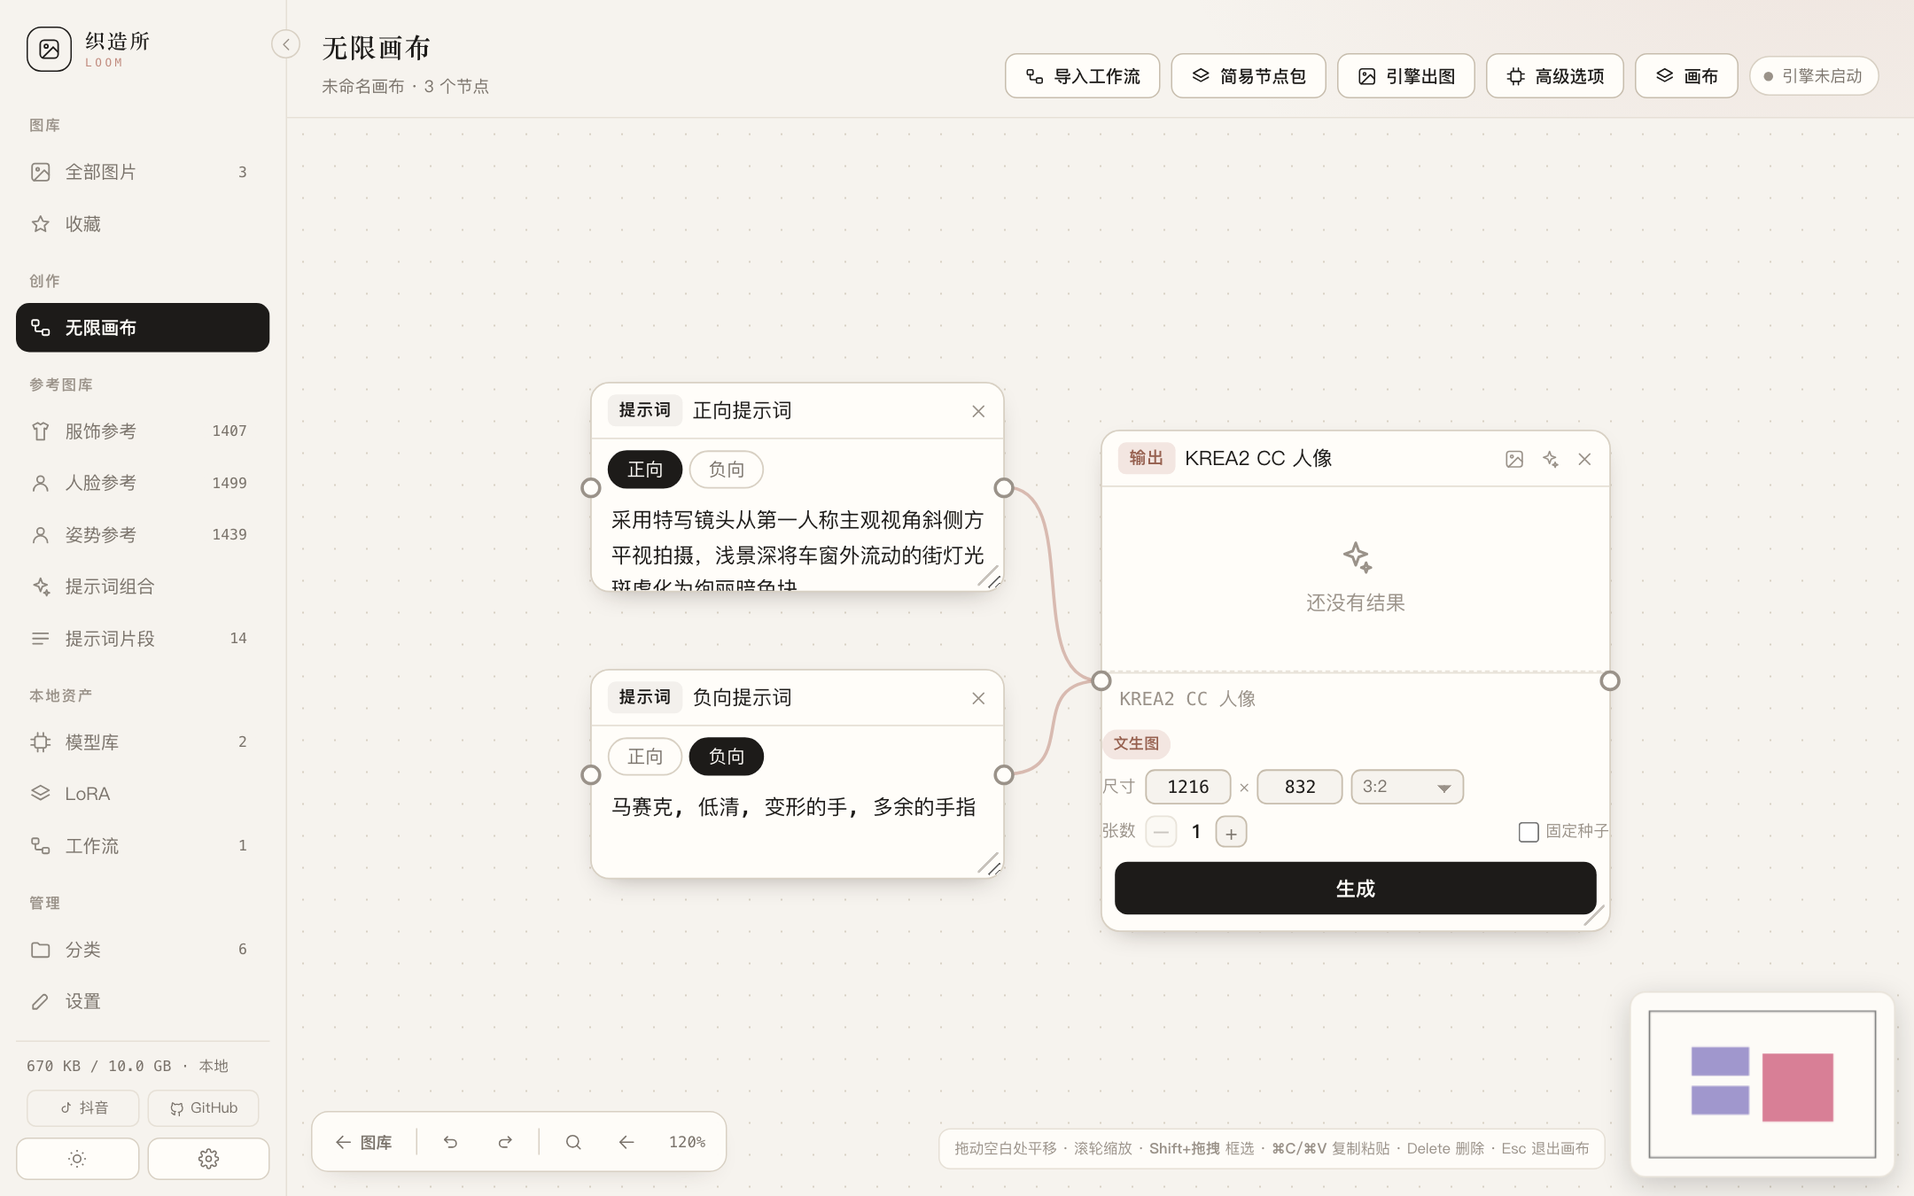
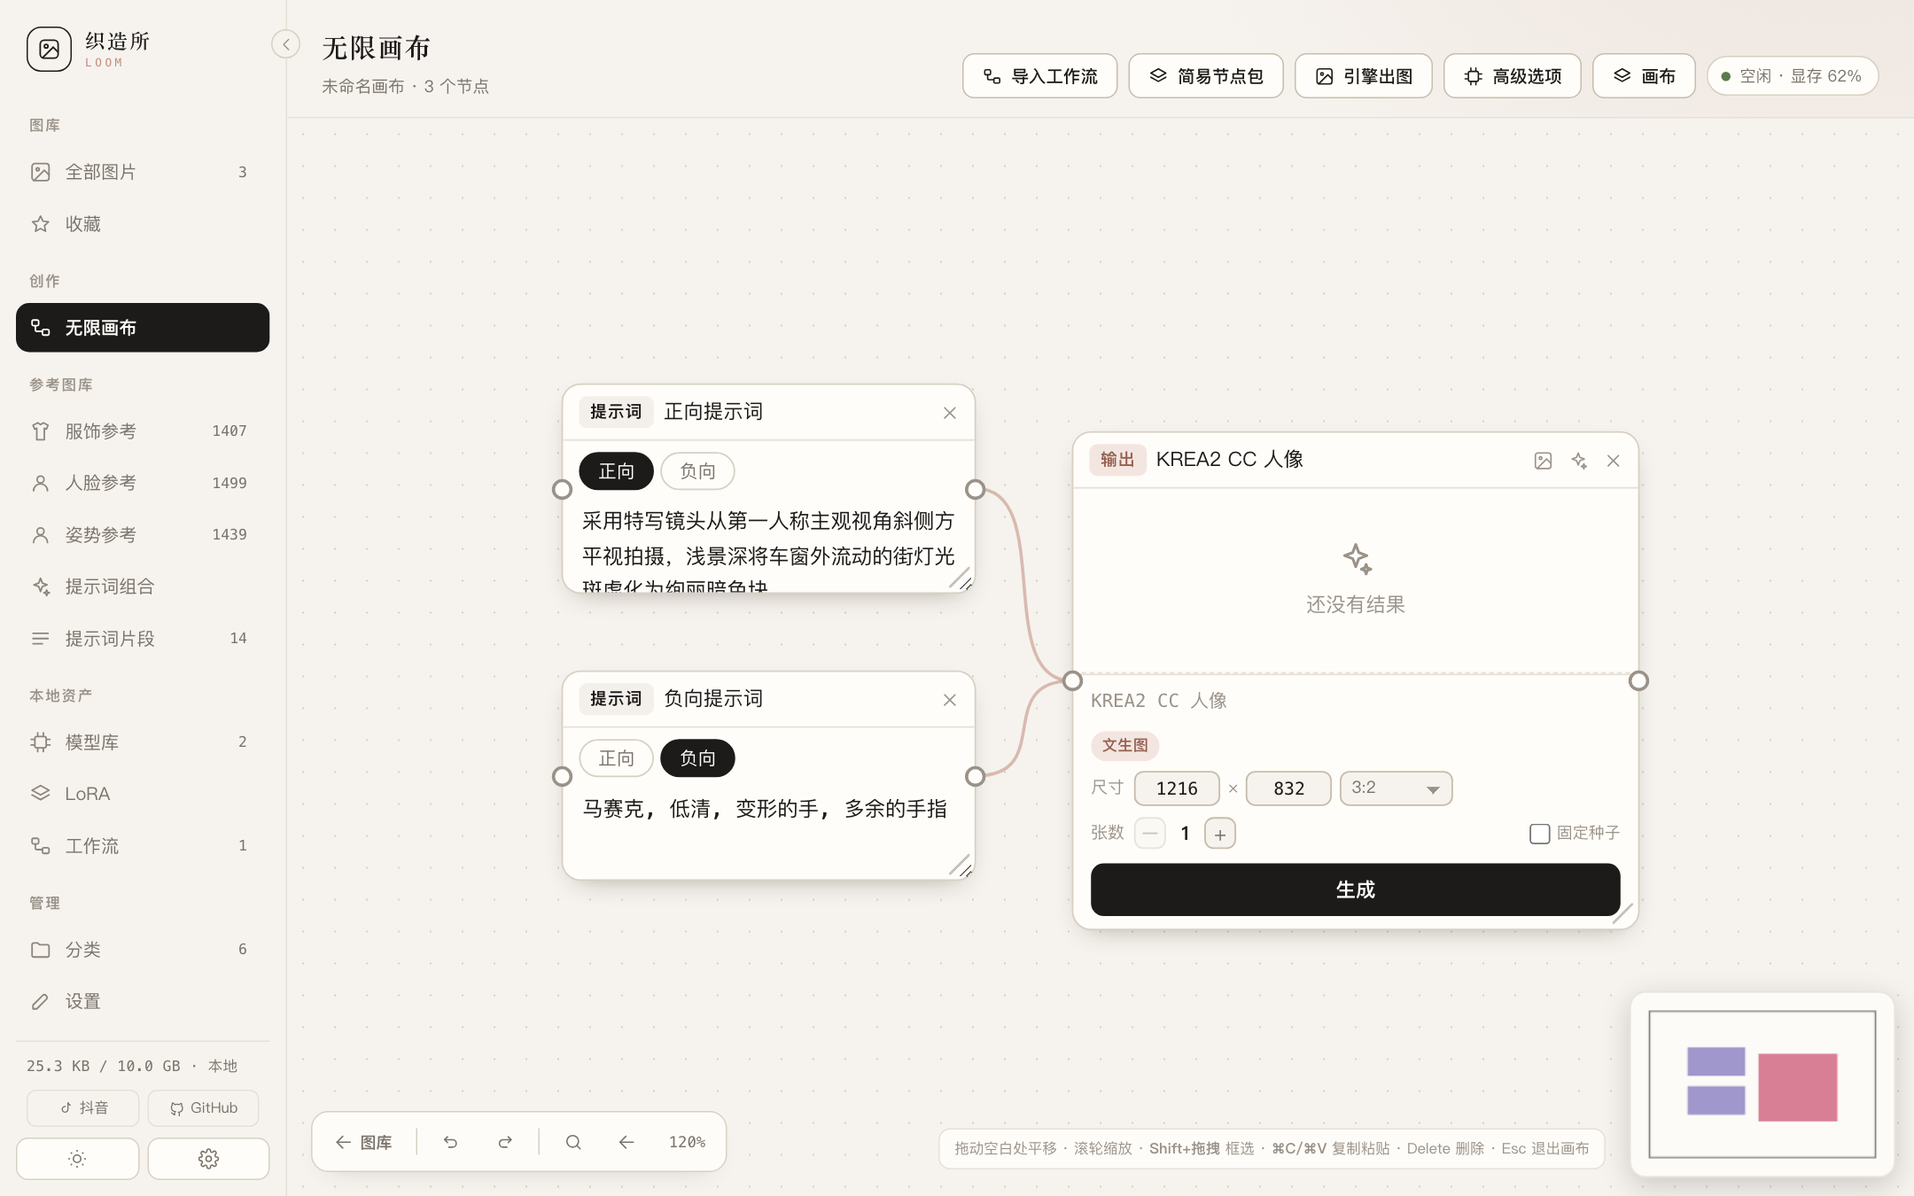
fix: 参考图库破图（404 被缓存 7 天）+ 输出节点控件挤成一团
根因不是图丢了，是服务器的缓存头写错了。

serve.py 的 end_headers() 不判状态码，给所有响应都打
`Cache-Control: public, max-age=604800`。参考缩略图还没下载完时打开过图库，
浏览器就把那些 404 记了 7 天；等图都在了，它还是拿缓存里那个 404 ——
刷新也不管用（缓存没过期）。所以表现为「一部分缩略图怎么都不显示」，
而且每个人坏的不是同一批（取决于当时滚到哪）。

上一版还是 HTTP/1.0，每张缩略图新建一条 TCP 连接。图库一屏 120 张、
往下滚继续加载，几百条短连接会把本机临时端口用光，也是「部分图加载不出来」
的另一个来源。

修法
- end_headers() 只在 200 / 304 时长缓存，其余一律 no-store
- 新增 send_response() 记录状态码供其判断
- Handler.protocol_version = HTTP/1.1（连接复用），timeout = 30 防僵尸连接
- 缩略图 URL 统一加 ?v=3（reference.js 的 THUMB_VER）：已经被缓存 404 的
  浏览器会自动换新地址，用户不用手动清缓存

输出节点 UI
- .cv-size / .cv-batch / .cv-slots 之前没有左右留白，控件直接顶在卡片边框上，
  现在统一 11px，与工作流名、状态行、按钮完全对齐
- 节点加宽：输出 320 → 356，简化 300 → 330（320 放不下尺寸+比例+张数+固定种子）
- 错误态只留一个主按钮「重试」，不再「生成」和「重试」上下叠着两个
- 错误文案最多 3 行，长报错不撑变形
- 工作流名/模型名重新分配弹性，右边限宽 58%

测试
- py 52 → 59：缓存头回归（图片 200/304 长缓存、404/500 不缓存、代码文件不缓存、
  send_response 记状态码）+ HTTP/1.1 断言

实测：三个参考图库各 120 张，破图 0、网络失败 0；13 视图 0 异常；
节点各行的 left 偏移完全一致（18px @1.5x）。

diff --git a/assets/canvas.js b/assets/canvas.js
@@ -399,11 +399,12 @@ window.Canvas = (function () {
           ? `<div class="cv-prog"><i style="width:${Math.min(100, Math.max(2, Math.round(n.data.prog.step / Math.max(1, n.data.prog.total) * 100)))}%"></i></div>`
           : ''}
         ${n.data.statusText ? `<div class="cv-gen-status ${st}">${esc(n.data.statusText)}</div>` : ''}
-        <button class="cv-run" data-cvnode="run" ${st === 'running' ? 'disabled' : ''}>
-          ${st === 'running' ? '<span class="spinner"></span> 生成中' : '生成'}
-        </button>
-        ${st === 'running' ? '<button class="cv-cancel" data-cvnode="cancel">取消</button>' : ''}
-        ${st === 'error' ? '<button class="cv-cancel retry" data-cvnode="retry">重试</button>' : ''}`;
+        ${st === 'error'
+          ? `<button class="cv-run retry" data-cvnode="retry">重试</button>`
+          : `<button class="cv-run" data-cvnode="run" ${st === 'running' ? 'disabled' : ''}>
+               ${st === 'running' ? '<span class="spinner"></span> 生成中' : '生成'}
+             </button>`}
+        ${st === 'running' ? '<button class="cv-cancel" data-cvnode="cancel">取消</button>' : ''}`;
     } else if (n.type === 'simple') {
       const st = n.data.status || 'idle';
       const slots = n.data.imageSlots || 0;
@@ -426,11 +427,12 @@ window.Canvas = (function () {
         ${batchRow(n)}
         ${st === 'running' && n.data.prog ? `<div class="cv-prog"><i style="width:${pct}%"></i></div>` : ''}
         ${n.data.statusText ? `<div class="cv-gen-status ${st}">${esc(n.data.statusText)}</div>` : ''}
-        <button class="cv-run" data-cvnode="run" ${st === 'running' ? 'disabled' : ''}>
-          ${st === 'running' ? '<span class="spinner"></span> 生成中' : '生成'}
-        </button>
-        ${st === 'running' ? '<button class="cv-cancel" data-cvnode="cancel">取消</button>' : ''}
-        ${st === 'error' ? '<button class="cv-cancel retry" data-cvnode="retry">重试</button>' : ''}`;
+        ${st === 'error'
+          ? `<button class="cv-run retry" data-cvnode="retry">重试</button>`
+          : `<button class="cv-run" data-cvnode="run" ${st === 'running' ? 'disabled' : ''}>
+               ${st === 'running' ? '<span class="spinner"></span> 生成中' : '生成'}
+             </button>`}
+        ${st === 'running' ? '<button class="cv-cancel" data-cvnode="cancel">取消</button>' : ''}`;
     } else if (n.type === 'group') {
       const items = groupItems(n);
       const act = Math.min(items.length - 1, Math.max(0, Number(n.data.active) || 0));
@@ -1542,8 +1544,8 @@ window.Canvas = (function () {
       prompt: { w: 320, data: { text: '', role: '正向' } },
       image: { w: 260, data: { src: '', label: '图片' } },
       ref: { w: 220, data: { src: '', label: '参考图' } },
-      gen: { w: 320, data: { wfName: '', model: '', status: 'idle', statusText: '' } },
-      simple: { w: 300, data: { wfName: '', text: '', neg: '', src: '', imageSlots: 0, status: 'idle', statusText: '' } },
+      gen: { w: 356, data: { wfName: '', model: '', status: 'idle', statusText: '' } },
+      simple: { w: 330, data: { wfName: '', text: '', neg: '', src: '', imageSlots: 0, status: 'idle', statusText: '' } },
       wf: { w: 240, data: {} },
       group: { w: 300, data: { items: [], active: 0, label: '图片组' } }
     }[type];

diff --git a/assets/style.css b/assets/style.css
@@ -920,6 +920,8 @@ html[data-theme="light"] #lightbox { background: rgba(246, 243, 238, .97); }
 }
 .cv-gen-meta:hover { color: var(--text); }
 .cv-gen-meta span { overflow: hidden; text-overflow: ellipsis; white-space: nowrap; }
+.cv-gen-meta span:first-child { flex: 1 1 auto; min-width: 0; }
+.cv-gen-meta span:last-child { flex: 0 1 auto; max-width: 58%; }
 .cv-gen-status {
   padding: 0 11px 8px;
   font-size: 11.5px; color: var(--text-2);
@@ -928,11 +930,19 @@ html[data-theme="light"] #lightbox { background: rgba(246, 243, 238, .97); }
   font-variant-numeric: tabular-nums;
   word-break: break-word;
 }
-.cv-gen-status.error { color: var(--danger); }
+.cv-gen-status.error {
+  color: var(--danger);
+  display: -webkit-box;
+  -webkit-line-clamp: 3;
+  -webkit-box-orient: vertical;
+  overflow: hidden;
+}
 .cv-gen-status.done { color: var(--ok); }
 .cv-run {
-  display: block; width: calc(100% - 16px);
-  margin: 2px 8px 10px;
+  display: block;
+  /* 左右 11px 跟上面的尺寸 / 张数行对齐，8px 会差出一条边 */
+  width: calc(100% - 22px);
+  margin: 2px 11px 8px;
   height: 33px;
   border: none; border-radius: 8px;
   background: var(--accent); color: var(--accent-fg);
@@ -1878,7 +1888,7 @@ html[data-theme="light"] #lightbox { background: rgba(246, 243, 238, .97); }
 
 /* 画布生成节点的「取消」 */
 .cv-cancel {
-  width: 100%; margin-top: 6px; height: 26px;
+  width: calc(100% - 22px); margin: 0 11px 10px; height: 26px;
   border-radius: 8px;
   border: 1px solid var(--line-input);
   background: transparent;
@@ -1912,7 +1922,8 @@ html[data-theme="light"] #lightbox { background: rgba(246, 243, 238, .97); }
 /* 槽位徽章：工作流标了什么就显示什么 */
 .cv-slots {
   display: flex; flex-wrap: wrap; align-items: center; gap: 4px;
-  margin: 2px 0 6px;
+  /* 左右 11px 跟 .cv-gen-meta / .cv-gen-status 对齐，否则控件像贴在边框上 */
+  margin: 2px 11px 6px;
 }
 .cv-slots i {
   font-style: normal; font-size: 9.5px; font-weight: 600;
@@ -1929,13 +1940,14 @@ html[data-theme="light"] #lightbox { background: rgba(246, 243, 238, .97); }
   font-size: 10px; color: var(--text-3);
   padding: 2px 7px; border-radius: 20px;
   background: var(--panel-2); border: 1px dashed var(--line-strong);
-  display: inline-block;
+  display: block; width: fit-content;
+  margin: 2px 11px 6px;
 }
 
 /* 批量张数 + 固定种子 */
 .cv-batch {
   display: flex; align-items: center; gap: 5px;
-  margin: 0 0 7px;
+  margin: 0 11px 7px;
   font-size: 10.5px; color: var(--text-3);
 }
 .cv-batch > span { margin-right: 1px; }
@@ -1964,7 +1976,7 @@ html[data-theme="light"] #lightbox { background: rgba(246, 243, 238, .97); }
 /* 出图尺寸行：只在工作流标了 width / height / duration 槽位时才出现 */
 .cv-size {
   display: flex; align-items: center; gap: 5px;
-  margin: 0 0 7px;
+  margin: 0 11px 7px;
   font-size: 10.5px; color: var(--text-3);
   flex-wrap: wrap; row-gap: 4px;
 }

diff --git a/assets/reference.js b/assets/reference.js
@@ -188,6 +188,23 @@ window.REF = (function () {
   /* ============================================================
      数据加载
      ============================================================ */
+  // 缩略图 URL 的版本号。历史 bug：老版本 serve.py 把 404 也缓存 7 天，
+  // 图没下载完时打开过图库的人，浏览器里就留了一批「永久 404」，
+  // 之后图都在了还是满屏破图。改这个数字 = 全站缩略图换新地址，
+  // 谁都不用去手动清缓存。改了 serve.py 之后就不该再出现，但版本号留着当保险。
+  const THUMB_VER = '3';
+
+  function thumbUrl(u) {
+    if (!u) return u;
+    return u + (u.indexOf('?') >= 0 ? '&' : '?') + 'v=' + THUMB_VER;
+  }
+
+  function withThumbVersion(items) {
+    return (items || []).map(it => (it && it.thumb)
+      ? Object.assign({}, it, { thumb: thumbUrl(it.thumb) })
+      : it);
+  }
+
   async function load(kind) {
     const st = state[kind];
     if (st.items.length) return st;
@@ -196,14 +213,14 @@ window.REF = (function () {
       // 优先用内联数据：file:// 双击打开时 fetch 本地 JSON 会被拦
       if (window.REF_DATA && window.REF_DATA[kind]) {
         st.meta = window.REF_DATA[kind];
-        st.items = st.meta.items || [];
+        st.items = withThumbVersion(st.meta.items);
         return st;
       }
       const res = await fetch(`reference/${kind}.json`);
       if (!res.ok) throw new Error(`读取 reference/${kind}.json 失败`);
       const json = await res.json();
       st.meta = json;
-      st.items = json.items || [];
+      st.items = withThumbVersion(json.items);
       return st;
     })();
     return st.loading;

diff --git a/tests/py/test_serve.py b/tests/py/test_serve.py
@@ -606,3 +606,63 @@ class TestSysPayload(EngineFixture):
 
 if __name__ == '__main__':
     unittest.main(verbosity=2)
+
+
+# ============================================================
+# 静态资源的缓存头
+# 曾经 404 也被打上 max-age=604800，浏览器把「图还没下载完时的 404」
+# 记了 7 天，之后图都在了还是满屏破图，刷新也没用。
+# ============================================================
+class TestCacheHeaders(unittest.TestCase):
+
+    def _headers(self, path, status):
+        h = serve.Handler.__new__(serve.Handler)   # 不建真实 socket
+        h.path = path
+        h._status_code = status
+        h.request_version = 'HTTP/1.1'
+        h._headers_buffer = []
+        h.send_header = lambda k, v: h._headers_buffer.append((k.lower(), v))
+        h.flush_headers = lambda: None
+        serve.Handler.end_headers(h)
+        return dict(h._headers_buffer)
+
+    def test_image_200_is_cached_long(self):
+        h = self._headers('/reference/outfits/SPR-0001.webp', 200)
+        self.assertIn('max-age=604800', h['cache-control'])
+
+    def test_image_304_keeps_long_cache(self):
+        h = self._headers('/reference/outfits/SPR-0001.webp', 304)
+        self.assertIn('max-age=604800', h['cache-control'])
+
+    def test_404_is_never_cached(self):
+        """关键回归：图片 404 绝不能长缓存，否则破了就再也刷不回来"""
+        for path in ('/reference/outfits/SPR-9999.webp',
+                     '/reference/faces/nope.jpg',
+                     '/assets/missing.js'):
+            h = self._headers(path, 404)
+            self.assertIn('no-store', h['cache-control'], path)
+            self.assertNotIn('max-age', h['cache-control'], path)
+
+    def test_500_is_never_cached(self):
+        h = self._headers('/reference/outfits/SPR-0001.webp', 500)
+        self.assertIn('no-store', h['cache-control'])
+
+    def test_code_files_are_not_cached(self):
+        h = self._headers('/assets/canvas.js', 200)
+        self.assertIn('no-store', h['cache-control'])
+
+    def test_send_response_records_status(self):
+        """end_headers 靠 self._status_code 判断，所以 send_response 必须记下来"""
+        h = serve.Handler.__new__(serve.Handler)
+        h._headers_buffer = []
+        h.request_version = 'HTTP/1.1'
+        h.log_request = lambda *a, **k: None
+        h.send_response(404)
+        self.assertEqual(h._status_code, 404)
+
+
+class TestProtocolVersion(unittest.TestCase):
+
+    def test_http_11_for_connection_reuse(self):
+        """HTTP/1.0 每个请求一条连接，几百张缩略图会把本机端口用光"""
+        self.assertEqual(serve.Handler.protocol_version, 'HTTP/1.1')

diff --git a/serve.py b/serve.py
@@ -1551,16 +1551,37 @@ ENGINE = Engine()
 
 
 class Handler(http.server.SimpleHTTPRequestHandler):
+    # 默认是 HTTP/1.0：每个请求都得新建一条 TCP 连接。图库一屏 120 张缩略图、
+    # 往下滚还会继续加载，几百条短连接很容易把本机临时端口用光，
+    # 表现就是「一部分图怎么都加载不出来」。1.1 允许连接复用，这个问题就没了。
+    # 前提是每个响应都有 Content-Length（下面几个出口都设了）。
+    protocol_version = "HTTP/1.1"
+    timeout = 30
+
     def __init__(self, *a, **kw):
         super().__init__(*a, directory=ROOT, **kw)
 
+    def send_response(self, code, message=None):
+        # 记下状态码，end_headers 要靠它决定能不能长缓存
+        self._status_code = code
+        super().send_response(code, message)
+
     def end_headers(self):
-        # 代码与页面禁用缓存（改完刷新即生效），图片与字体长缓存（2900+ 张参考图不要反复拉）
+        # 只有「真的拿到了内容」才给长缓存。
+        #
+        # 曾经这里不判状态码，结果 404 也被打上 max-age=604800 —— 参考缩略图还没
+        # 下载完时打开过图库，浏览器就把 404 记了 7 天；等到图都在了，它还是拿缓存里
+        # 那个 404，于是满屏破图，而且刷新也没用（缓存还没过期）。
+        # 现在：200/304 才长缓存，其余一律 no-store。
+        status = getattr(self, "_status_code", 200)
         path = self.path.split("?")[0].lower()
-        if path.endswith((".webp", ".png", ".jpg", ".jpeg", ".avif", ".gif", ".woff2")):
+        is_media = path.endswith((".webp", ".png", ".jpg", ".jpeg", ".avif", ".gif", ".woff2"))
+
+        if is_media and status in (200, 304):
             self.send_header("Cache-Control", "public, max-age=604800")
         else:
             self.send_header("Cache-Control", "no-store, must-revalidate")
+
         super().end_headers()
 
     def log_message(self, fmt, *args):

diff --git a/CHANGELOG.md b/CHANGELOG.md
@@ -4,6 +4,33 @@
 
 ## [未发布]
 
+### 修复（参考图库满屏破图）
+
+- **404 也被缓存了 7 天**：`serve.py` 的 `end_headers()` 不判状态码，给所有响应都打 `Cache-Control: max-age=604800`。
+  参考缩略图还没下载完时打开过图库，浏览器就把那些 404 记了 7 天；等图都在了，它还是拿缓存里那个 404，
+  **刷新也不管用**（缓存没过期）。表现就是「一部分缩略图怎么都不显示」，且不同人坏的不是同一批。
+  - 现在只有 `200` / `304` 才长缓存，其余一律 `no-store`
+  - 新增 `send_response()` 记录状态码，供 `end_headers()` 判断
+  - 参考图 URL 统一加 `?v=3`（`reference.js` 的 `THUMB_VER`）—— 让**已经被缓存 404 的浏览器**自动换新地址，用户不用手动清缓存
+- **服务器是 HTTP/1.0，每张缩略图新建一条 TCP 连接**：图库一屏 120 张、往下滚还继续加载，
+  几百条短连接会把本机临时端口用光，同样表现成「一部分图加载不出来」。
+  `Handler.protocol_version` 改成 `HTTP/1.1`，连接可复用；顺带加 `timeout = 30` 防僵尸连接。
+
+### 界面优化（输出节点）
+
+- **控件不再贴边**：`.cv-size` / `.cv-batch` / `.cv-slots` 之前没有左右留白，控件直接顶在卡片边框上；
+  现在统一 11px，与工作流名、状态行、按钮完全对齐
+- **节点加宽**：输出节点 320 → 356px，简化节点 300 → 330px —— 320 放不下「尺寸 + 比例 + 张数 + 固定种子」
+- **错误态只留一个按钮**：之前「生成」和「重试」上下叠着，两个都像主按钮；
+  现在错误时主按钮直接变成「重试」（`runGen` 本来就是读当前参数重跑，功能等价）
+- 错误文案最多显示 3 行（`-webkit-line-clamp`），长报错不再把卡片撑变形
+- 工作流名 / 模型名两个标签重新分配弹性：左边优先，右边限宽 58%，不再出现「KREA2_C…」
+
+### 测试
+
+- `tests/py` 52 → 59：新增缓存头回归（图片 200/304 长缓存、404/500 不缓存、代码文件不缓存、`send_response` 记录状态码）与 HTTP/1.1 断言
+- `tests/js` 53 项不变
+
 ### 新增（出图尺寸 / 模型默认路径 / 零基础教程 / 全界面截图）
 
 - **出图尺寸随手改（图片与视频通用）**：输出节点上新增 `尺寸 [宽] × [高] [比例▾]`
@@ -23,7 +50,7 @@
 - **`scripts/make_shots.mjs`**：用 Node 自带的 `fetch` + `WebSocket` 驱动本机 Chrome 的 DevTools 协议自动截图，**不装 playwright / puppeteer**
   - `SHOTS=ref node scripts/make_shots.mjs` 可按名字分批跑（参考图库一页 120 张、滚动自动加载，连截三张会顶爆渲染进程）
 
-### 测试
+### 测试（出图尺寸 / 模型路径）
 
 - `tests/py` 50 → 52：新增「同分时取 ComfyUI 自带 models」「roots 顺序把自带 models 排第一」
 - `tests/js` 44 → 53：新增分辨率槽位（`width`/`height`/`duration` 带出当前值、只写传进来的那个、空值不写、没槽位不报错）与 `size` 合体槽位（拆成两项、写同一节点两个 input、只给宽度时高度留原值、节点无宽高时给警告、老写法兼容）

diff --git a/小白图文教程.md b/小白图文教程.md
@@ -1090,7 +1090,8 @@ low quality, blurry, deformed hands, extra fingers, watermark, text
 | 图片显示成破图 | 浏览器缓存坏了 | `Ctrl+Shift+R`（Mac 是 `⌘⇧R`）强制刷新 |
 | 左侧菜单点不动 | 黑色终端窗口被关了 | 重新启动程序 |
 | 换了浏览器数据不见了 | IndexedDB 按「源」隔离 | 认准一个浏览器用；定期用设置页导出备份 |
-| 参考图库图片加载不出来 | 缩略图文件缺失 | 运行 `scripts/fetch_reference_gcore.py` 重新拉一次 |
+| 参考图库满屏破图（蓝白小方块） | ① 缩略图还没下载 ② 浏览器把旧的 404 缓存了 | 先看 `reference/outfits/` 里有没有图。有图还是破 → 按 `⌘⇧R` / `Ctrl+Shift+R` 强制刷新一次；仍然不行就跑 `python3 scripts/fetch_reference_gcore.py` 重新拉缩略图 |
+| 只有一部分缩略图破 | 大概率同上（老版本服务的 404 缓存） | 同上。新版已改成「404 不缓存 + 缩略图地址带版本号」，正常情况下不需要你干预 |
 | 界面错位 / 按钮重叠 | 窗口太窄 | 把浏览器窗口拉宽（建议 1280 以上） |
 
 ### 10.5 一个万能的自查顺序
